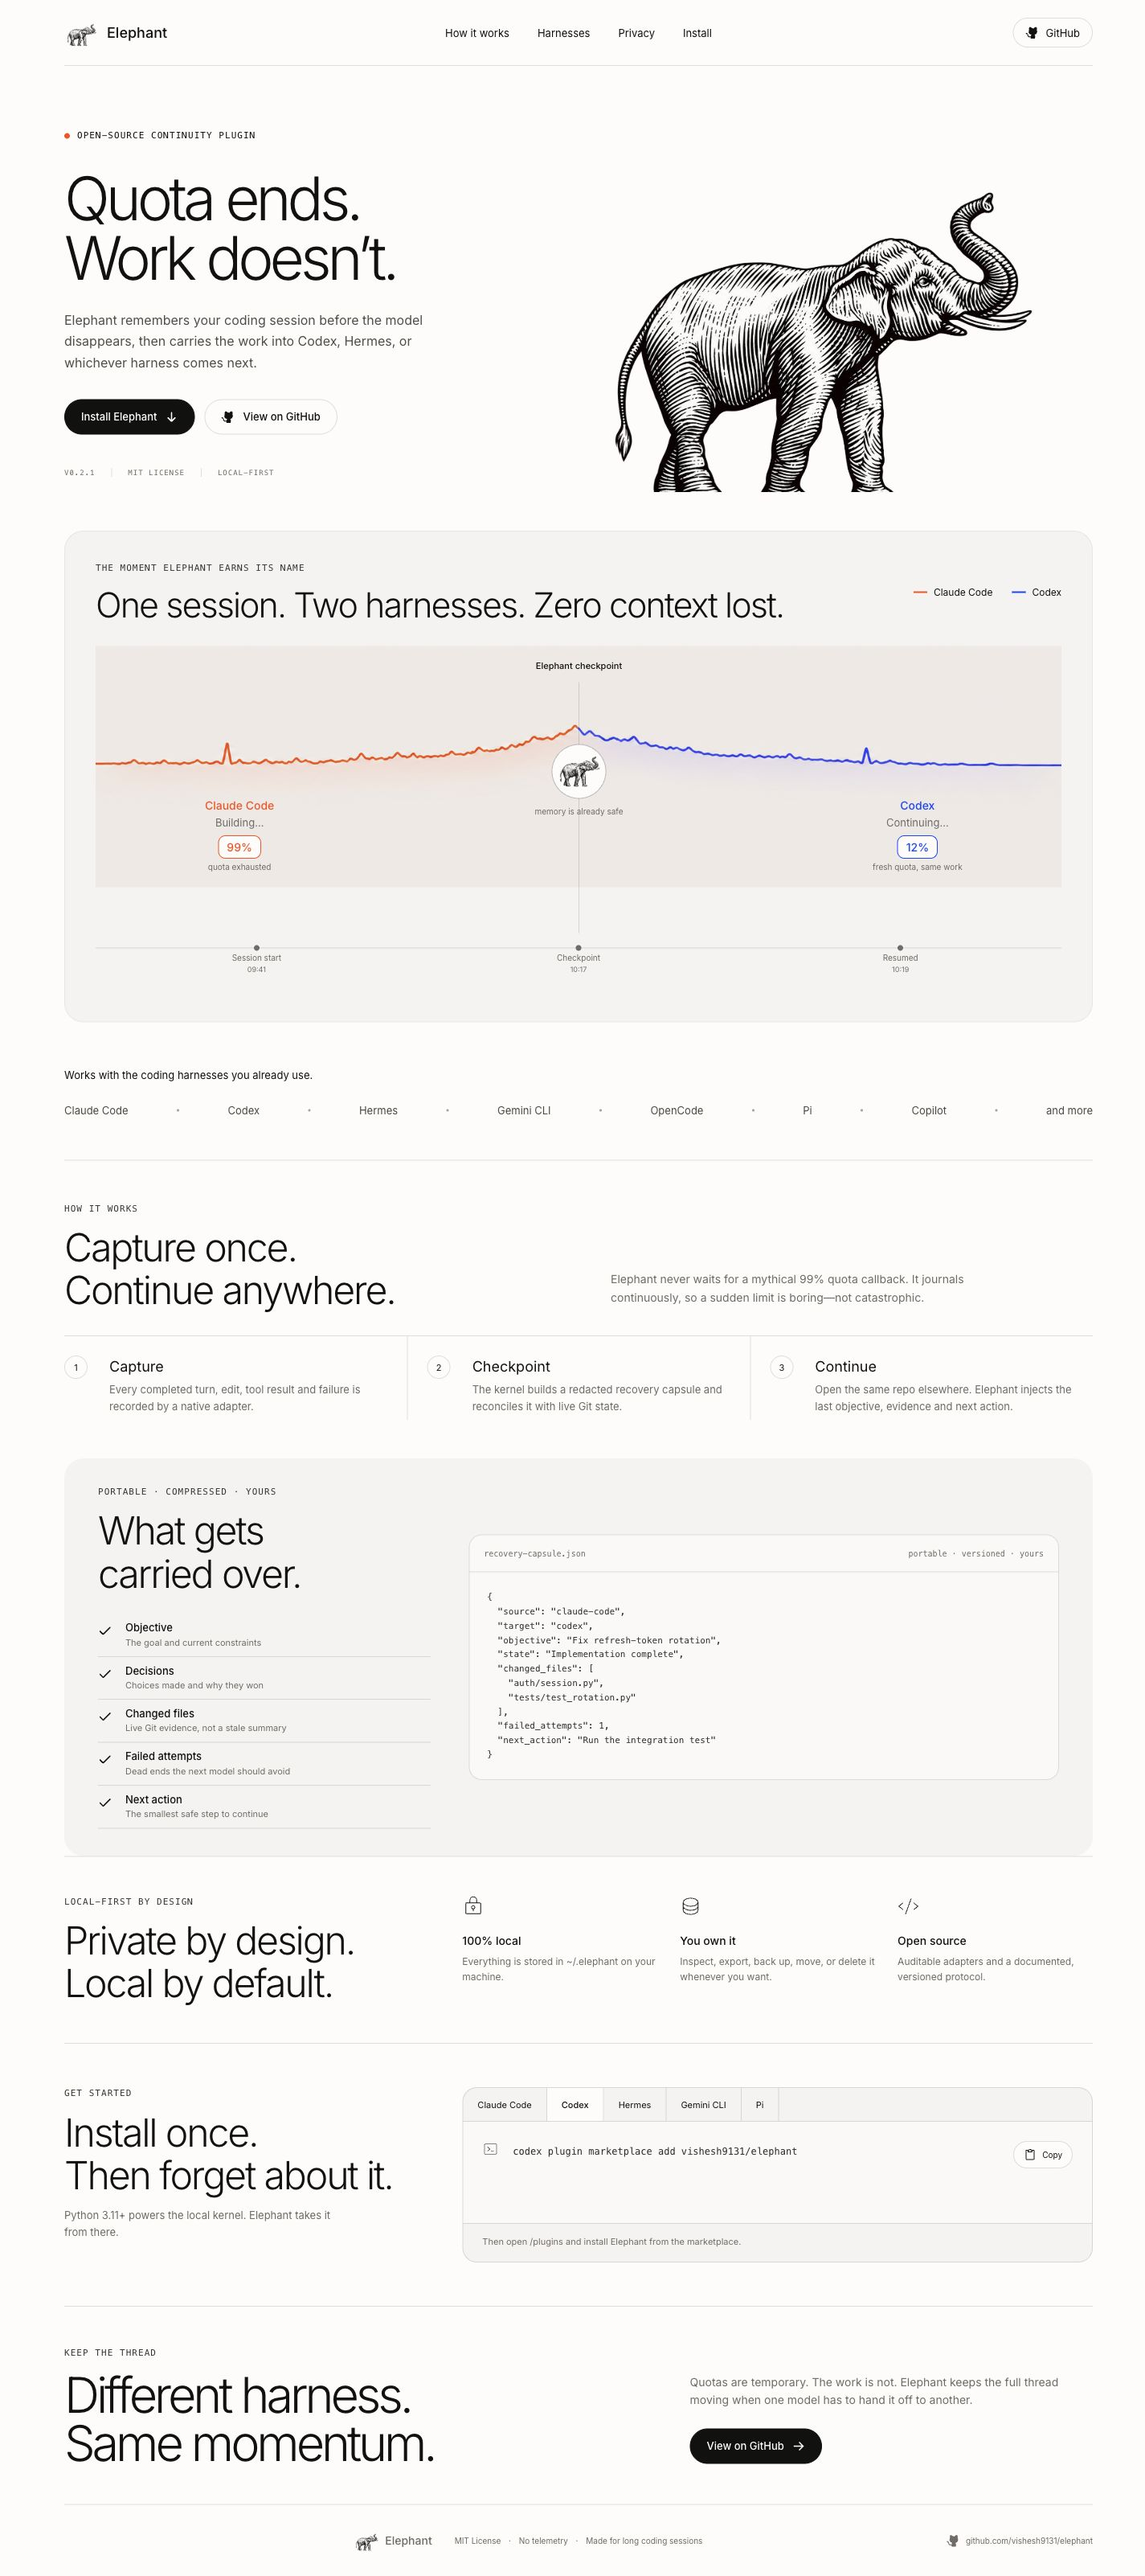
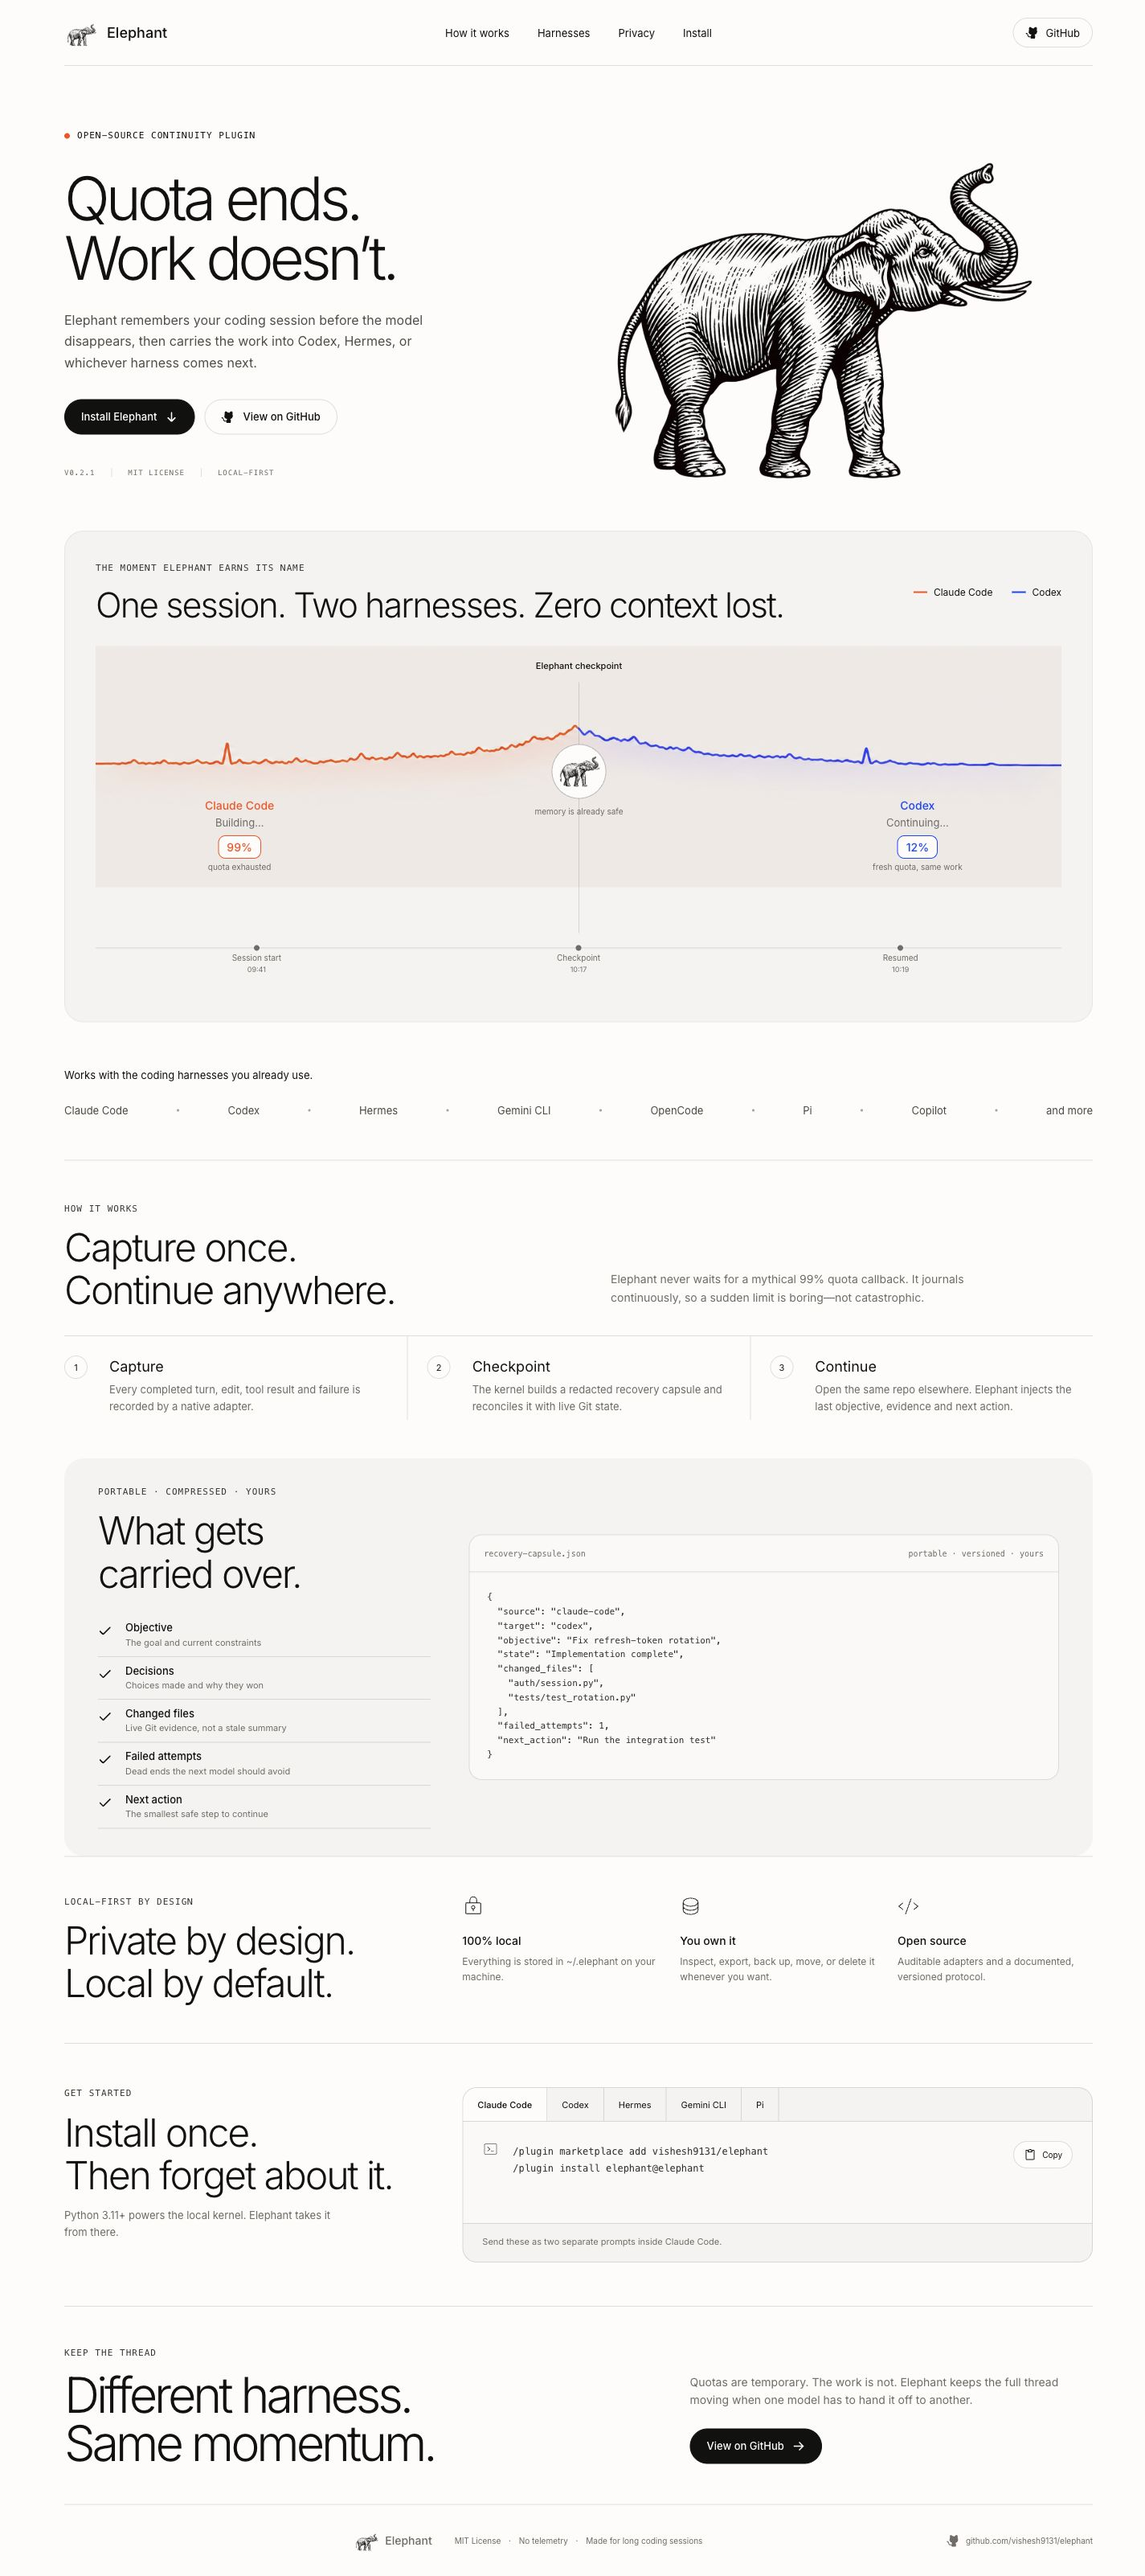
Keep Elephant feet visible in hero

Changed region(s): [[0.5249, 0.0624, 0.8954, 0.1873]]

diff --git a/site/src/styles.css b/site/src/styles.css
@@ -66,7 +66,7 @@ button { color: inherit; }
 .hero__meta span { padding-right: 20px; margin-right: 20px; border-right: 1px solid var(--line); }
 .hero__meta span:last-child { border: 0; }
 .hero__art { height: 470px; display: grid; place-items: center; overflow: hidden; }
-.hero__art img { width: 104%; max-width: 610px; display: block; mix-blend-mode: multiply; transform: translate(-1%, -2%); }
+.hero__art img { width: 104%; max-width: 610px; display: block; mix-blend-mode: multiply; transform: translate(-1%, -8%); }
 
 .pulse-panel { background: var(--taupe); border: 1px solid rgba(17,17,15,.06); border-radius: 24px; padding: 38px 38px 28px; }
 .panel-heading { display: flex; align-items: flex-start; justify-content: space-between; gap: 24px; }
@@ -180,7 +180,7 @@ button { color: inherit; }
   .button { width: 100%; }
   .hero__meta { flex-wrap: wrap; line-height: 2.5; margin-top: 28px; }
   .hero__art { height: 300px; margin-top: 18px; }
-  .hero__art img { width: 128%; max-width: none; }
+  .hero__art img { width: 128%; max-width: none; transform: translate(-1%, -17%); }
   .pulse-panel { width: calc(100% - 20px); padding: 28px 18px 20px; border-radius: 20px; }
   .panel-heading { display: block; }
   .pulse-legend { padding-top: 20px; }

diff --git a/site/design-qa.md b/site/design-qa.md
@@ -4,16 +4,18 @@
 - Rendered desktop evidence: `site/implementation-desktop.png`
 - Rendered mobile evidence: `site/implementation-mobile.png`
 - Source pixels: 2994 × 2994, sRGB, RGBA
-- Desktop capture: 1440 × 3267 pixels at a 1440 × 900 CSS viewport, device scale factor 1
-- Mobile capture: 390 × 3453 pixels at a 390 × 844 CSS viewport, device scale factor 1
-- State: landing page, top route; Codex install tab selected in final full-page captures
+- Desktop full-page capture: 1425 × 3204 pixels at a 1440 × 900 CSS viewport, device scale factor 1
+- Desktop focused capture: 1440 × 900 pixels at the same CSS viewport and density
+- Mobile full-page capture: 375 × 5288 pixels at a 390 × 844 CSS viewport, device scale factor 1
+- Mobile focused capture: 390 × 1200 pixels at the same CSS viewport and density
+- State: landing page, top route; default Claude Code tab in visual evidence
 
 ## Findings
 
 No actionable P0, P1, or P2 differences remain.
 
 - Fonts and typography: unchanged from the approved landing page. The artwork replacement does not alter heading hierarchy, wrapping, optical weight, or small-label legibility.
-- Spacing and layout rhythm: the square source is framed inside the existing hero slot without changing the page grid. Desktop and mobile retain their established spacing and have no horizontal overflow.
+- Spacing and layout rhythm: the square source is framed inside the existing hero slot without changing the page grid. The desktop image is shifted 8% upward and the mobile image 17% upward so the complete feet clear the section boundary. Both breakpoints retain their established spacing and have no horizontal overflow.
 - Colors and visual tokens: the original black engraving remains full black. All `invert`, `grayscale`, `contrast`, and brightness-affecting filters were removed. `mix-blend-mode: multiply` only lets the source's white canvas adopt the cream paper color; it does not brighten the black ink.
[1 lines of base64/hex data omitted]
 - Copy and content: unchanged.
@@ -21,7 +23,7 @@ No actionable P0, P1, or P2 differences remain.
 ## Comparison evidence
 
 - Full-view comparison: the source, 1440-pixel desktop capture, and 390-pixel mobile capture were opened together. The elephant's engraving is crisp and dark at both breakpoints, with no gray wash or glow from the previous asset.
-- Focused region comparison: `site/implementation-hero.png` isolates the desktop hero against the supplied source. The subject, line work, raised trunk, and black tonal density match; the page applies only responsive scale and crop.
+- Focused region comparison: `site/implementation-hero.png` and `site/implementation-mobile-hero.png` isolate the responsive hero against the supplied source. The subject, raised trunk, toes, line work, and black tonal density remain visible; the section below no longer clips the feet.
 
 ## Interaction and runtime checks
 
@@ -35,6 +37,7 @@ No actionable P0, P1, or P2 differences remain.
 
 1. Initial P1: the landing page used the older dark-gradient elephant and CSS `invert(1) grayscale(1) contrast(...)`, producing the brightened/washed appearance. Fixed by replacing both canonical assets with the supplied original and deleting the filters.
 2. Initial P2: the first direct replacement rendered too large in the desktop hero because the supplied canvas is square. Fixed by reducing the hero maximum width to 610px and shifting it 2% upward; post-fix desktop and mobile captures preserve the subject without changing surrounding layout.
+3. Follow-up P2: the feet still touched and visually disappeared behind the next section. Fixed with an 8% upward desktop offset and a breakpoint-specific 17% mobile offset. Post-fix focused captures show the complete feet and toes above the section boundary.
 
 ## Follow-up polish
 

diff --git a/site/AGENTS.md b/site/AGENTS.md
@@ -6,6 +6,8 @@ Before making substantial visual changes, use the Product Design plugin's `get-c
 
 The canonical Elephant artwork is `site/public/elephant.png`, supplied as `Group 197.png`. Render its original black engraving without brightness, inversion, grayscale, or contrast filters. On cream surfaces, `mix-blend-mode: multiply` may be used only to merge the artwork's white canvas into the page; do not alter the black ink.
 
+Keep the complete feet visible in the hero crop at desktop and mobile breakpoints; position the square source upward instead of enlarging or clipping its lower edge.
+
 When implementing from a selected generated mock, treat that image as the source of truth for layout, component anatomy, density, spacing, color, typography, visible content, and hierarchy.
 
 Build app UI in `src/`. Keep `.openai/hosting.json`, `worker/index.js`, `scripts/prepare-sites-build.mjs`, and `tests/sites-worker.test.mjs` intact so the same local prototype can be handed to Sites. Before a Sites handoff, run `npm run build` and `npm run test:sites`; the build must leave `dist/client/index.html`, `dist/server/index.js`, and `dist/.openai/hosting.json`.
